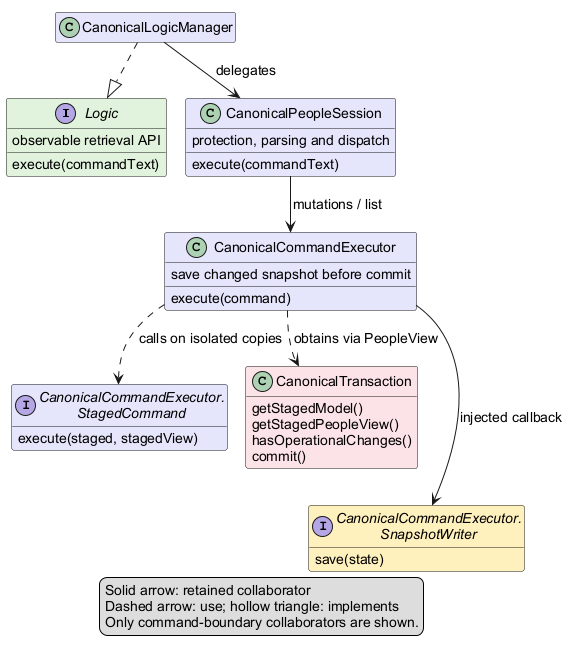
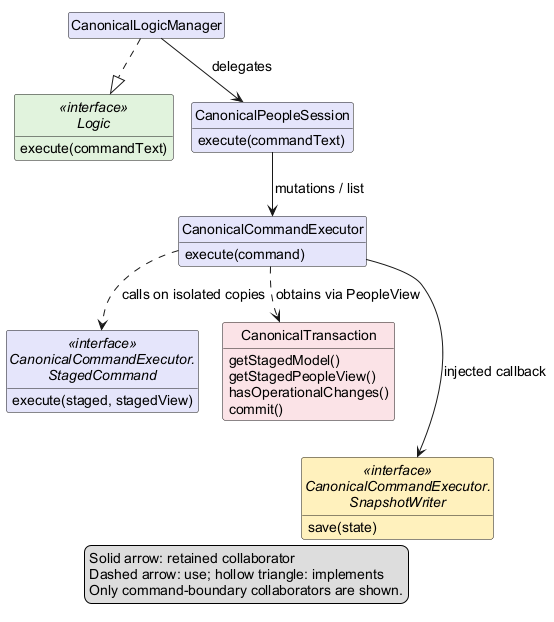
Correct Logic diagram interface notation
The Logic figure rendered tool badges in place of interface keywords
and placed responsibility prose in attribute compartments. Show the
three interface keywords explicitly, hide badges and keep responsibility
explanations in the adjacent guide without changing collaborator scope.

Changed region(s): [[0.0, 0.0, 0.9819, 0.9775]]

diff --git a/docs/DeveloperGuide.md b/docs/DeveloperGuide.md
@@ -467,6 +467,9 @@ any current result. Navigation introduces no parser grammar, stored state or alt
 
 ![Active command-boundary collaborators](images/LogicClassDiagram.png)
 
+The diagram shows selected command-boundary operations. `Logic` also exposes the observable
+retrieval APIs used by the UI; the responsibilities below describe session routing and executor ordering.
+
 `CanonicalLogicManager` implements `Logic` over one `CanonicalPeopleSession`. The session resolves a
 `CanonicalCommandDefinition` and dispatches through its exhaustive switch. Definitions also supply
 `CanonicalCommandCatalog` guidance and protected-session eligibility; protection is checked before
